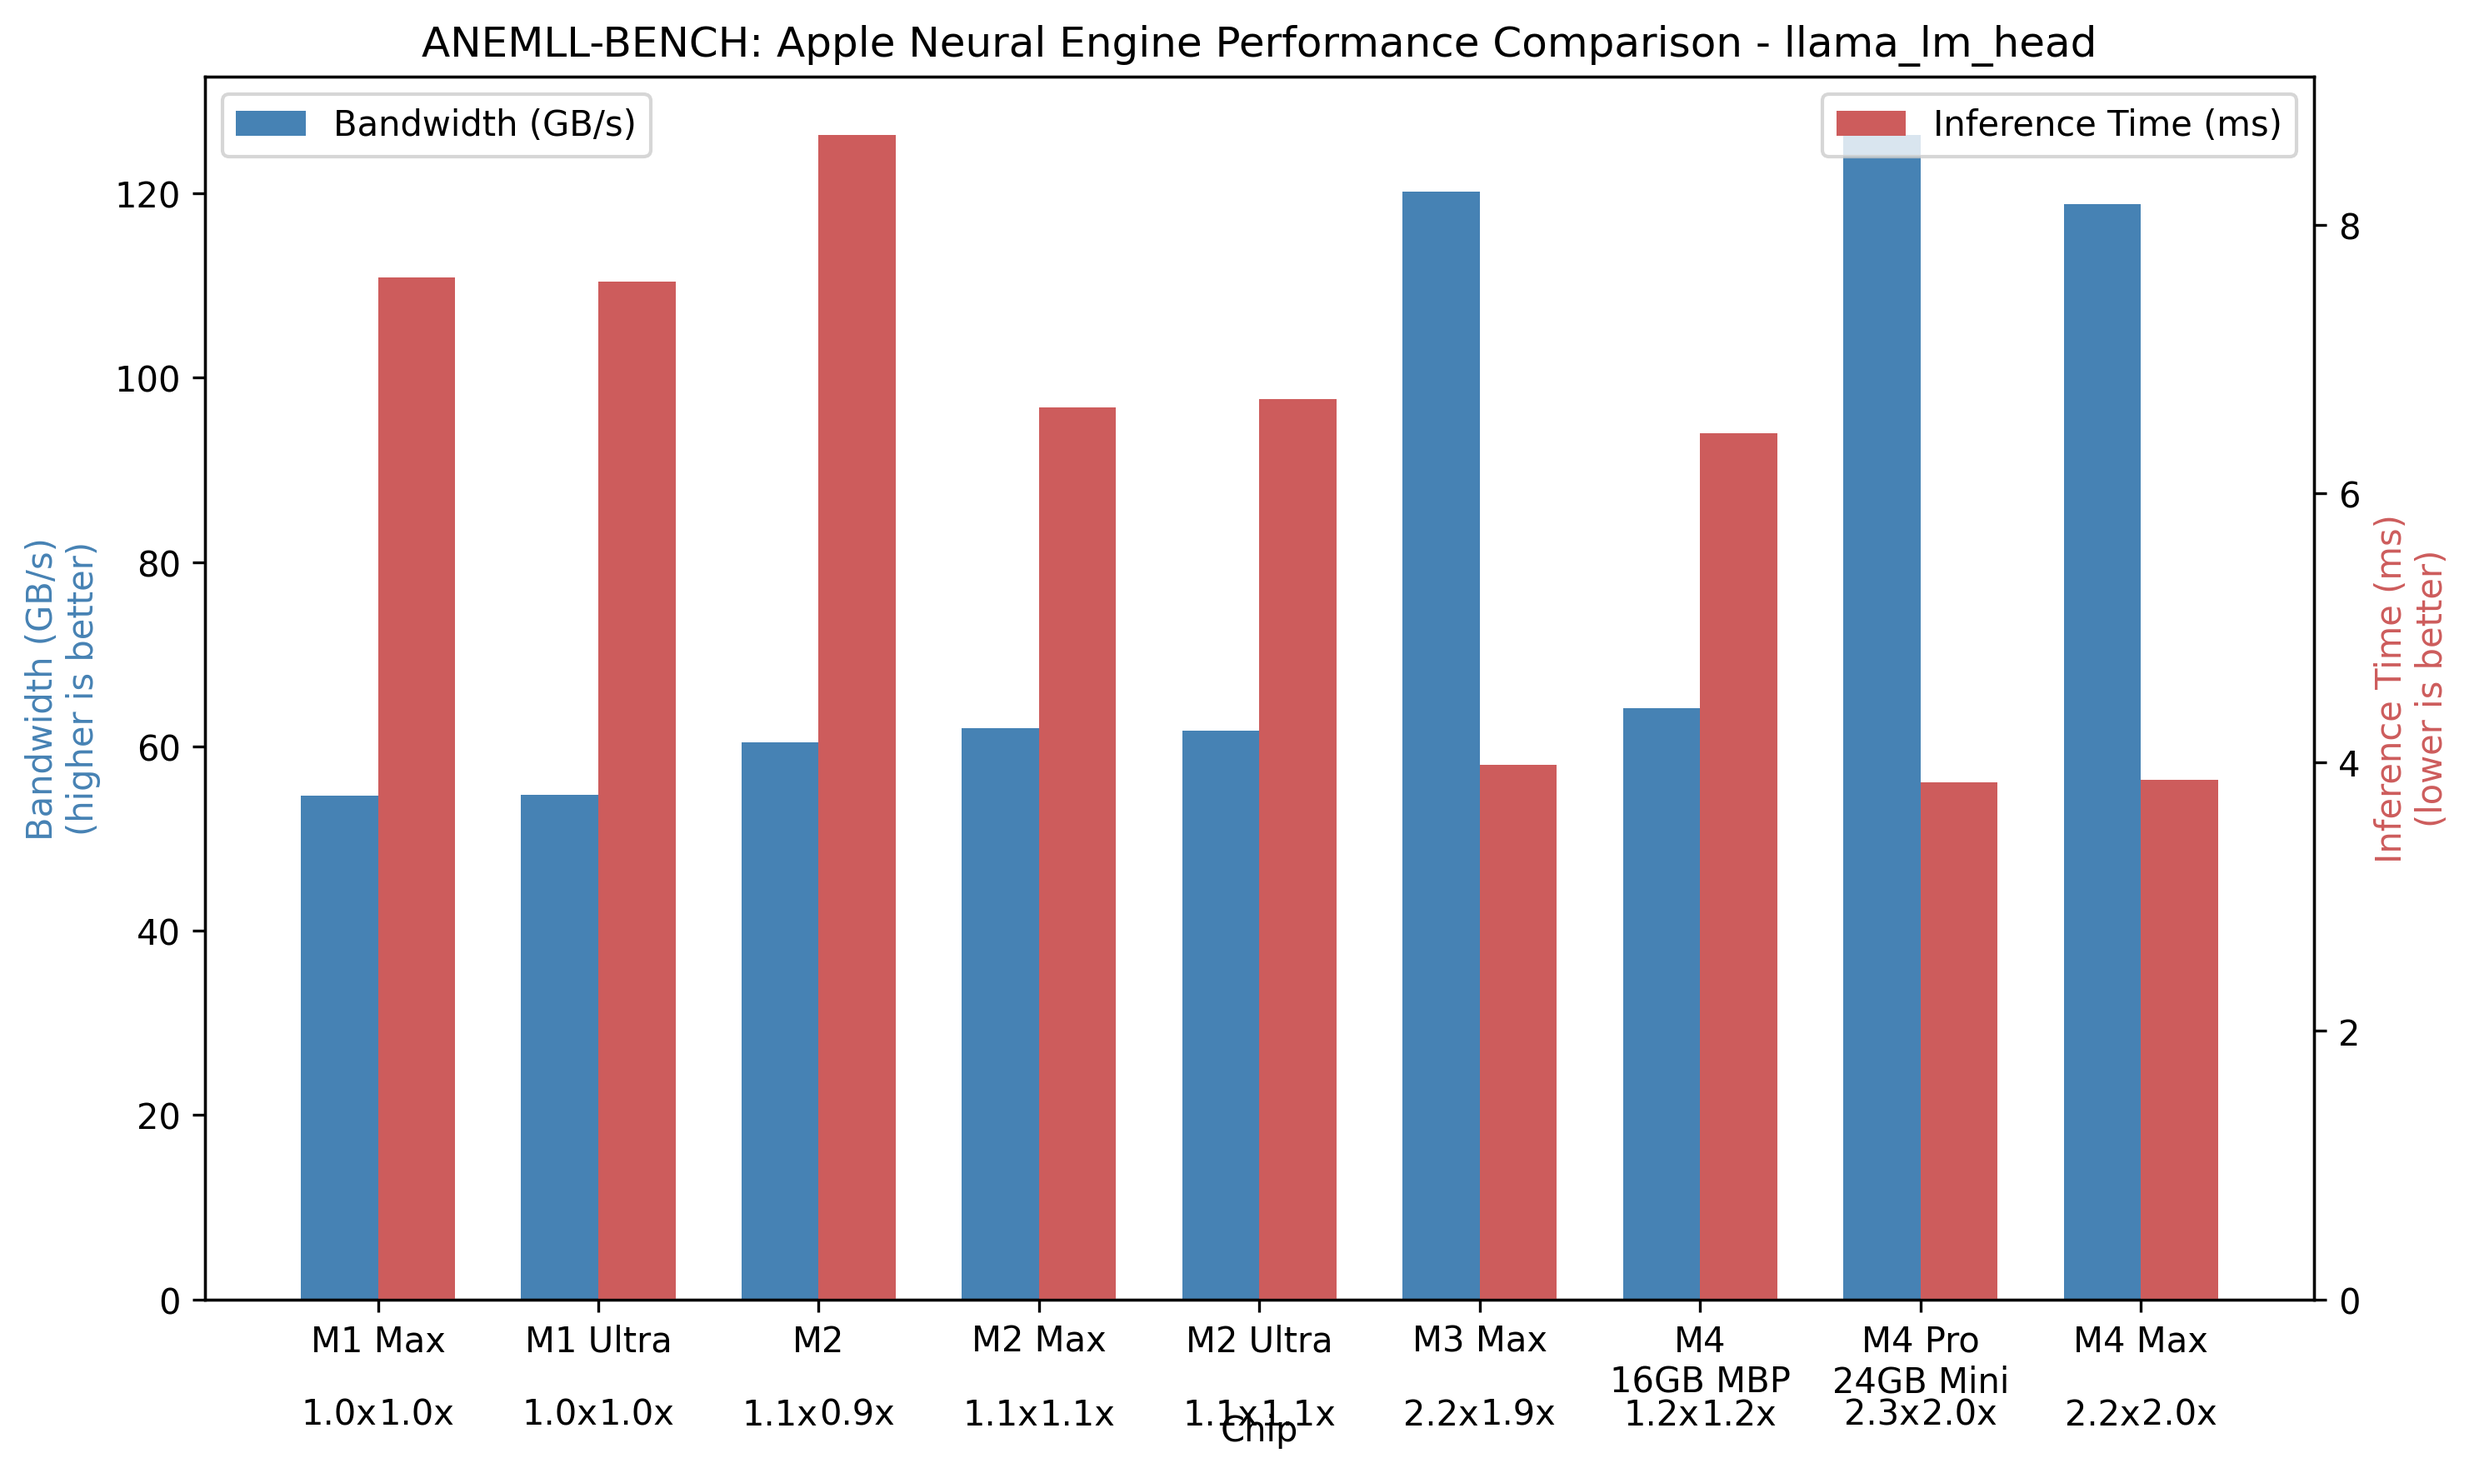
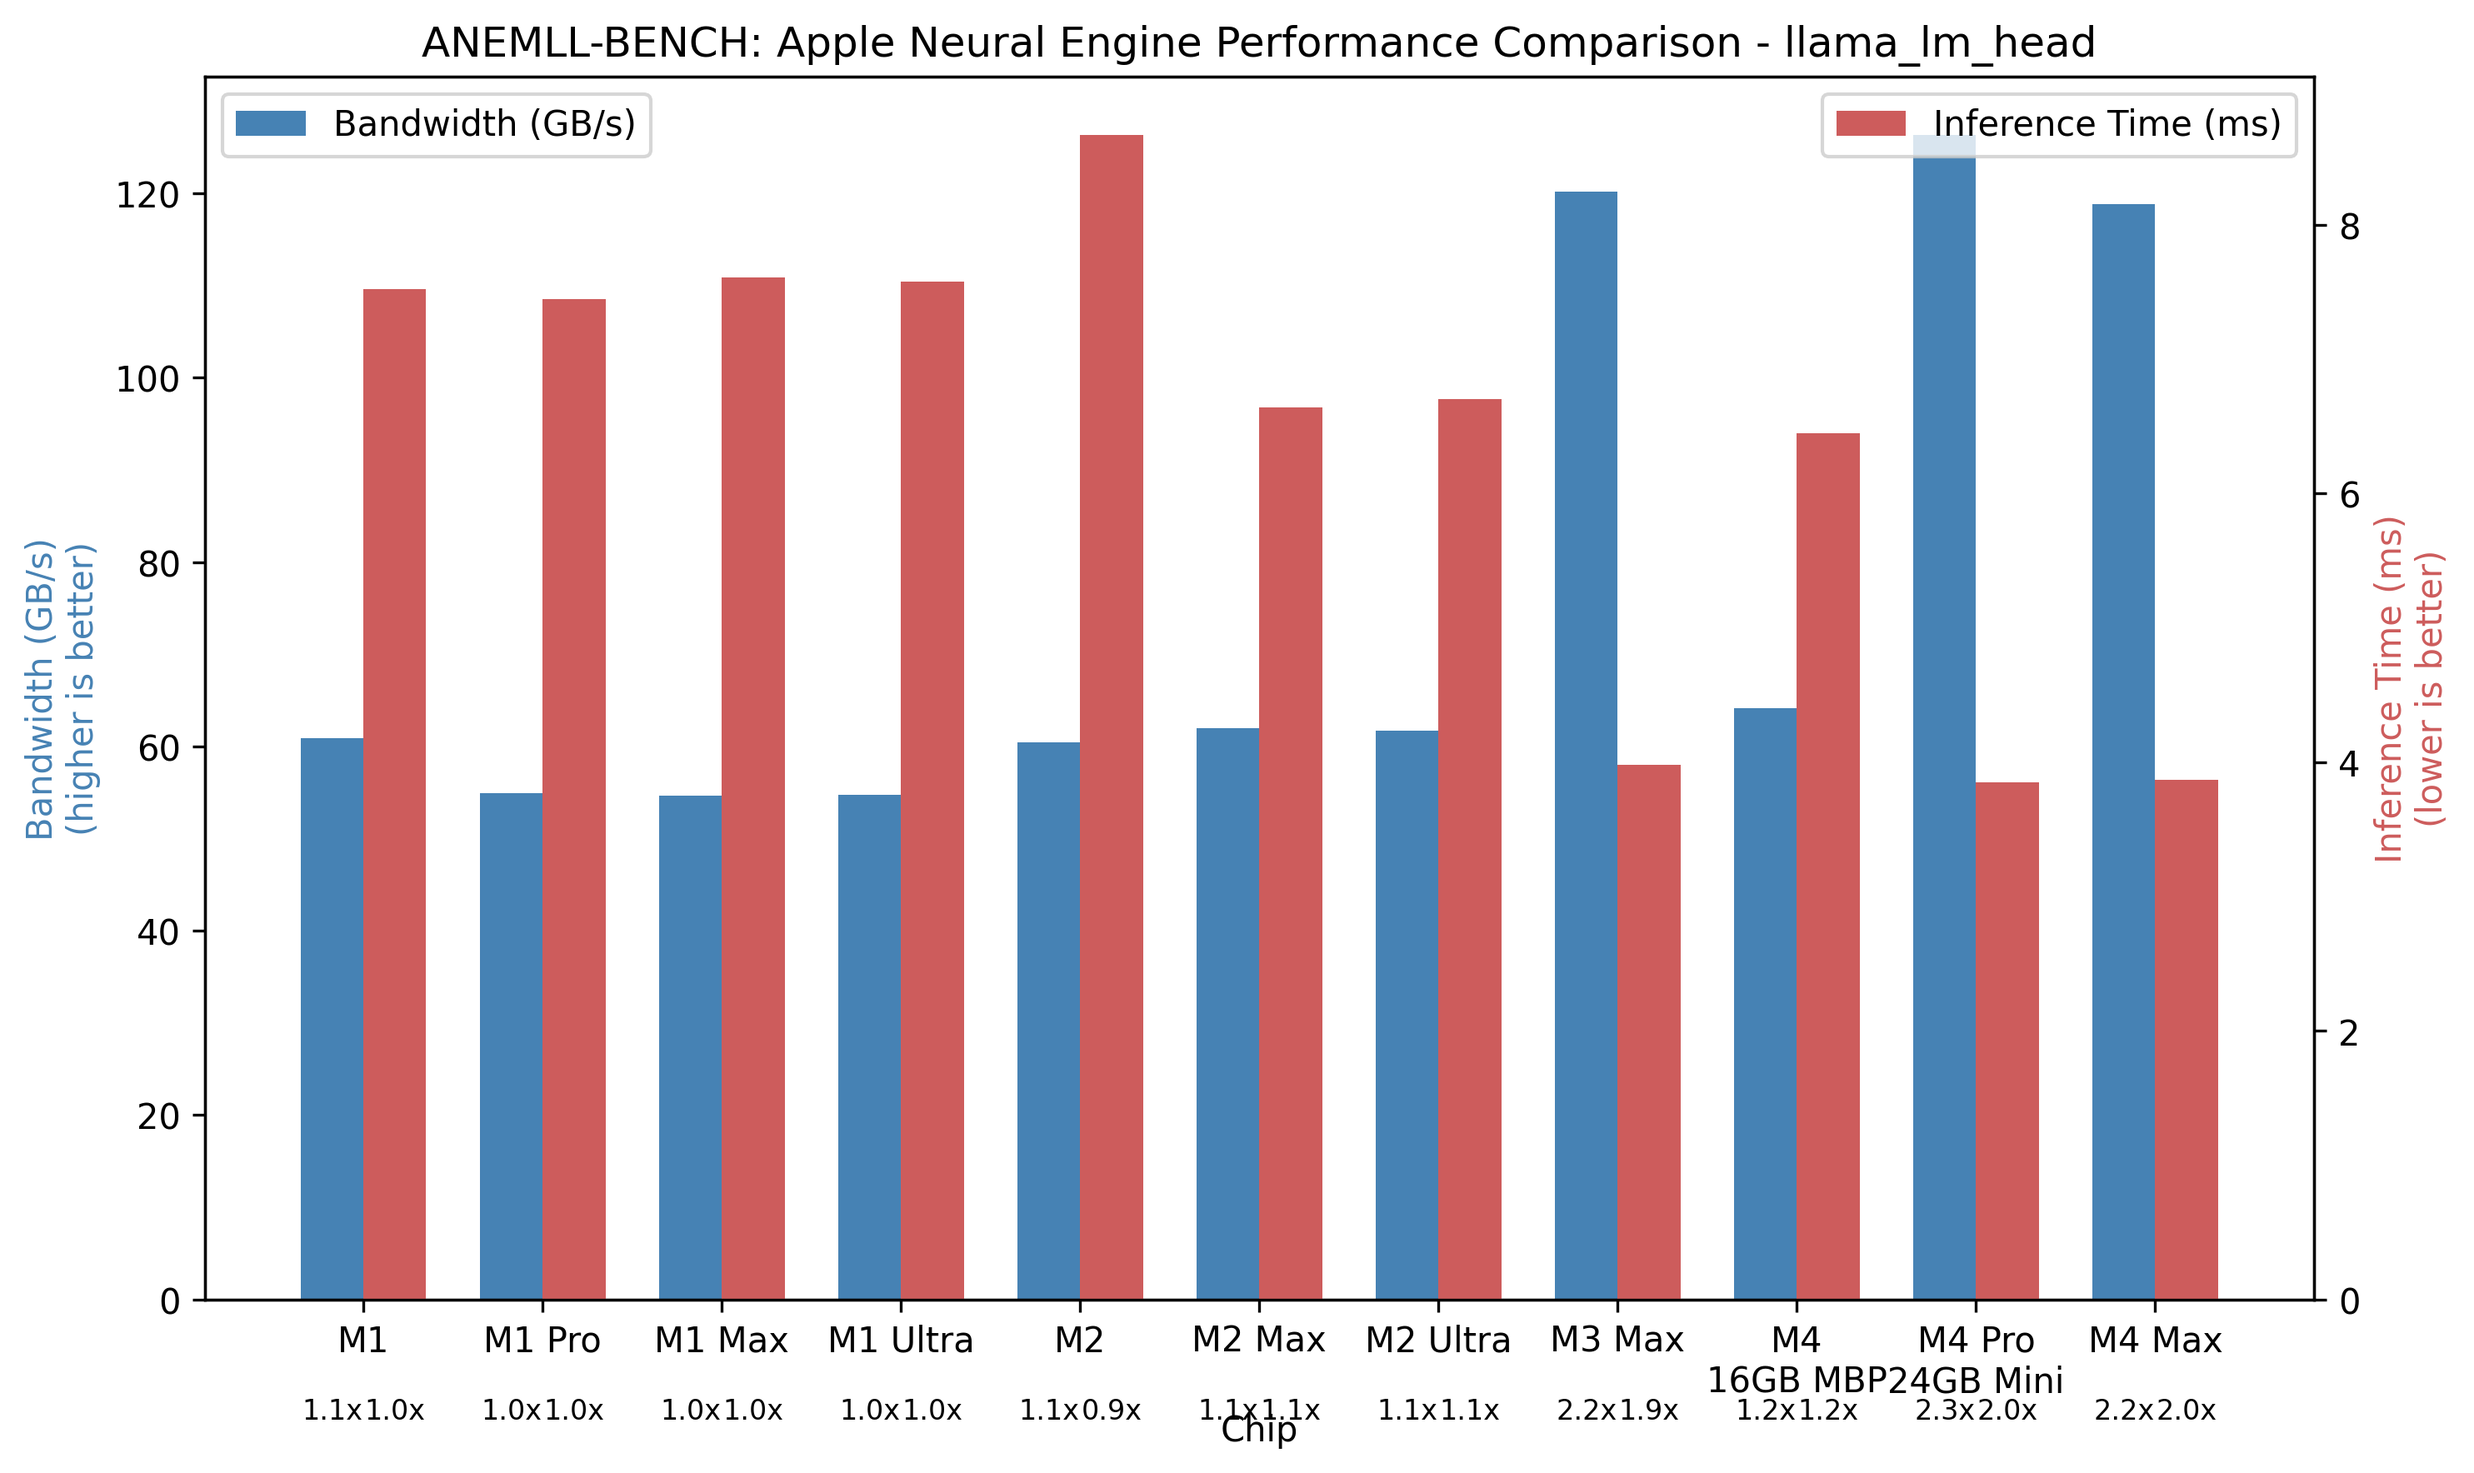
M1 and M1 Pro updated

diff --git a/examples/generate_results_report.py b/examples/generate_results_report.py
@@ -44,11 +44,11 @@ def generate_visualizations(args):
     
     # Sample data from benchmark results
     # In a real implementation, this would come from parsing the benchmark results file
-    chips = ['M1 Max', 'M1 Ultra', 'M2', 'M2 Max', 'M2 Ultra', 'M3 Max', 'M4\n16GB MBP', 'M4 Pro\n24GB Mini', 'M4 Max']
-    bandwidth = [54.62, 54.72, 60.45, 62.01, 61.68, 120.22, 64.18, 126.36, 118.88]  # GB/s (llama_lm_head)
-    inference = [7.61, 7.58, 8.67, 6.64, 6.70, 3.98, 6.45, 3.85, 3.87]           # ms (llama_lm_head_lut6)
-    bandwidth_factor = ['1.0x', '1.0x', '1.1x', '1.1x', '1.1x', '2.2x', '1.2x', '2.3x', '2.2x']
-    inference_factor = ['1.0x', '1.0x', '0.9x', '1.1x', '1.1x', '1.9x', '1.2x', '2.0x', '2.0x']
+    chips = ['M1', 'M1 Pro', 'M1 Max', 'M1 Ultra', 'M2', 'M2 Max', 'M2 Ultra', 'M3 Max', 'M4\n16GB MBP', 'M4 Pro\n24GB Mini', 'M4 Max']
+    bandwidth = [60.87, 54.90, 54.62, 54.72, 60.45, 62.01, 61.68, 120.22, 64.18, 126.36, 118.88]  # GB/s (llama_lm_head)
+    inference = [7.52, 7.45, 7.61, 7.58, 8.67, 6.64, 6.70, 3.98, 6.45, 3.85, 3.87]           # ms (llama_lm_head_lut6)
+    bandwidth_factor = ['1.1x', '1.0x', '1.0x', '1.0x', '1.1x', '1.1x', '1.1x', '2.2x', '1.2x', '2.3x', '2.2x']
+    inference_factor = ['1.0x', '1.0x', '1.0x', '1.0x', '0.9x', '1.1x', '1.1x', '1.9x', '1.2x', '2.0x', '2.0x']
 
     # Create benchmark data dictionary
     benchmark_data = {

diff --git a/examples/plot_chip_comparison.py b/examples/plot_chip_comparison.py
@@ -25,11 +25,11 @@ def main():
     args = parser.parse_args()
 
     # Sample data from llama_lm_head model benchmarks
-    chips = ['M1 Max', 'M1 Ultra', 'M2', 'M2 Max', 'M2 Ultra', 'M3 Max', 'M4\n16GB MBP', 'M4 Pro\n24GB Mini', 'M4 Max']
-    bandwidth = [54.62, 54.72, 60.45, 62.01, 61.68, 120.22, 64.18, 126.36, 118.88]  # GB/s (llama_lm_head)
-    inference = [7.61, 7.58, 8.67, 6.64, 6.70, 3.98, 6.45, 3.85, 3.87]           # ms (llama_lm_head_lut6)
-    bandwidth_factor = ['1.0x', '1.0x', '1.1x', '1.1x', '1.1x', '2.2x', '1.2x', '2.3x', '2.2x']
-    inference_factor = ['1.0x', '1.0x', '0.9x', '1.1x', '1.1x', '1.9x', '1.2x', '2.0x', '2.0x']
+    chips = ['M1', 'M1 Pro', 'M1 Max', 'M1 Ultra', 'M2', 'M2 Max', 'M2 Ultra', 'M3 Max', 'M4\n16GB MBP', 'M4 Pro\n24GB Mini', 'M4 Max']
+    bandwidth = [60.87, 54.90, 54.62, 54.72, 60.45, 62.01, 61.68, 120.22, 64.18, 126.36, 118.88]  # GB/s (llama_lm_head)
+    inference = [7.52, 7.45, 7.61, 7.58, 8.67, 6.64, 6.70, 3.98, 6.45, 3.85, 3.87]           # ms (llama_lm_head_lut6)
+    bandwidth_factor = ['1.1x', '1.0x', '1.0x', '1.0x', '1.1x', '1.1x', '1.1x', '2.2x', '1.2x', '2.3x', '2.2x']
+    inference_factor = ['1.0x', '1.0x', '1.0x', '1.0x', '0.9x', '1.1x', '1.1x', '1.9x', '1.2x', '2.0x', '2.0x']
 
     # Option 1: Use plot_chip_comparison directly
     print("Demonstrating direct use of plot_chip_comparison function...\n")

diff --git a/anemll_bench/utils/visualization.py b/anemll_bench/utils/visualization.py
@@ -90,7 +90,7 @@ def plot_chip_comparison(
             ax1.text(x_center, -0.08, bandwidth_factor[i],
                     ha='center', va='top',
                     transform=ax1.get_xaxis_transform(),
-                    fontsize=10, color='black')
+                    fontsize=8, color='black')
 
     # Annotate the inference factor labels if provided
     if inference_factor:
@@ -99,7 +99,7 @@ def plot_chip_comparison(
             ax2.text(x_center, -0.08, inference_factor[i],
                     ha='center', va='top',
                     transform=ax2.get_xaxis_transform(),
-                    fontsize=10, color='black')
+                    fontsize=8, color='black')
 
     # Check if any chip labels contain newlines and add more bottom padding if needed
     if any('\n' in chip for chip in chips):

diff --git a/Results.MD b/Results.MD
@@ -20,7 +20,7 @@ Higher memory bandwidth and lower inference time indicate better performance.
 
 The chart below shows performance comparison across Apple Silicon generations for the `llama_lm_head` model:
 
-![Apple Silicon Performance Comparison](./reports/chip_comparison_llama_lm_head.png?v=20250310_v1)
+![Apple Silicon Performance Comparison](./reports/chip_comparison_llama_lm_head.png?v=20250310_v3)
 
 As shown in the visualization:
 - **M4 Series** chips demonstrate approximately 2.3x higher memory bandwidth compared to M1 series
@@ -34,6 +34,8 @@ As shown in the visualization:
 
 | Chip | Memory Bandwidth (GB/s) | Inference Time (ms) | Bandwidth Factor | Inference Factor |
 |------|------------------------|---------------------|------------------|------------------|
+| M1 | 60.87 | 7.52 | 1.1x | 1.0x |
+| M1 Pro | 54.90 | 7.45 | 1.0x | 1.0x |
 | M1 Max | 54.62 | 7.61 | 1.0x | 1.0x |
 | M1 Ultra | 54.72 | 7.58 | 1.0x | 1.0x |
 | M2 | 60.45 | 8.67 | 1.1x | 0.9x |
@@ -47,7 +49,7 @@ As shown in the visualization:
 ### Key Observations
 
 1. **Neural Engine Scaling**:
-   - The M1 Ultra shows minimal performance gains over M1 Max, suggesting limited Neural Engine scaling in first-generation Apple Silicon
+   - All M1 variants (Pro, Max, Ultra) show very similar performance, suggesting limited Neural Engine scaling in first-generation Apple Silicon
    - Similar pattern with M2 Ultra vs M2 Max
    - The base M2 chip has slightly better bandwidth than M1 series, but surprisingly worse inference time
    - M3 Max shows excellent memory bandwidth utilization and very good inference times, competitive with M4 series
@@ -61,6 +63,8 @@ As shown in the visualization:
    - Entry-level M4 16GB shows ~1.2x improvement, suggesting memory configuration or thermal constraints may be factors
 
 3. **Inference Time Improvements**:
+   - Base M2 actually performs slightly worse (0.9x) than M1 series for inference time
+   - M2 Max/Ultra models show modest improvements (1.1x) over M1 series
    - M3 Max shows impressive inference performance (3.98 ms), nearly as fast as the best M4 chips
    - High-end M4 chips are only marginally faster (3.85-3.87 ms) than the M3 Max
    - This suggests the major architectural leap for Neural Engine inference performance occurred with the M3 generation

diff --git a/README.md b/README.md
@@ -13,7 +13,7 @@ ANEMLL-Bench is part on ANEMLL Open Source Project [anemll.com](https://anemll.c
 
 ## 📊 [View Benchmark Results](./Results.MD) 📊
 
-[![Apple Silicon Performance Comparison](./reports/chip_comparison_llama_lm_head.png?v=20250310_v1)](./Results.MD)
+[![Apple Silicon Performance Comparison](./reports/chip_comparison_llama_lm_head.png?v=20250310_v3)](./Results.MD)
 
 Check out our latest [benchmark results](./Results.MD) comparing performance across different Apple Silicon chips (M1, M2, M3, M4 series).
 
@@ -30,8 +30,8 @@ Check out our latest [benchmark results](./Results.MD) comparing performance acr
       </tr>
       <tr>
         <td>
-          ✓ M1<br>
-          ✓ M1 PRO<br>
+          ✓ M1 ✅<br>
+          ✓ M1 PRO ✅<br>
           ✓ M1 MAX ✅<br>
           ✓ M1 ULTRA ✅
         </td>
